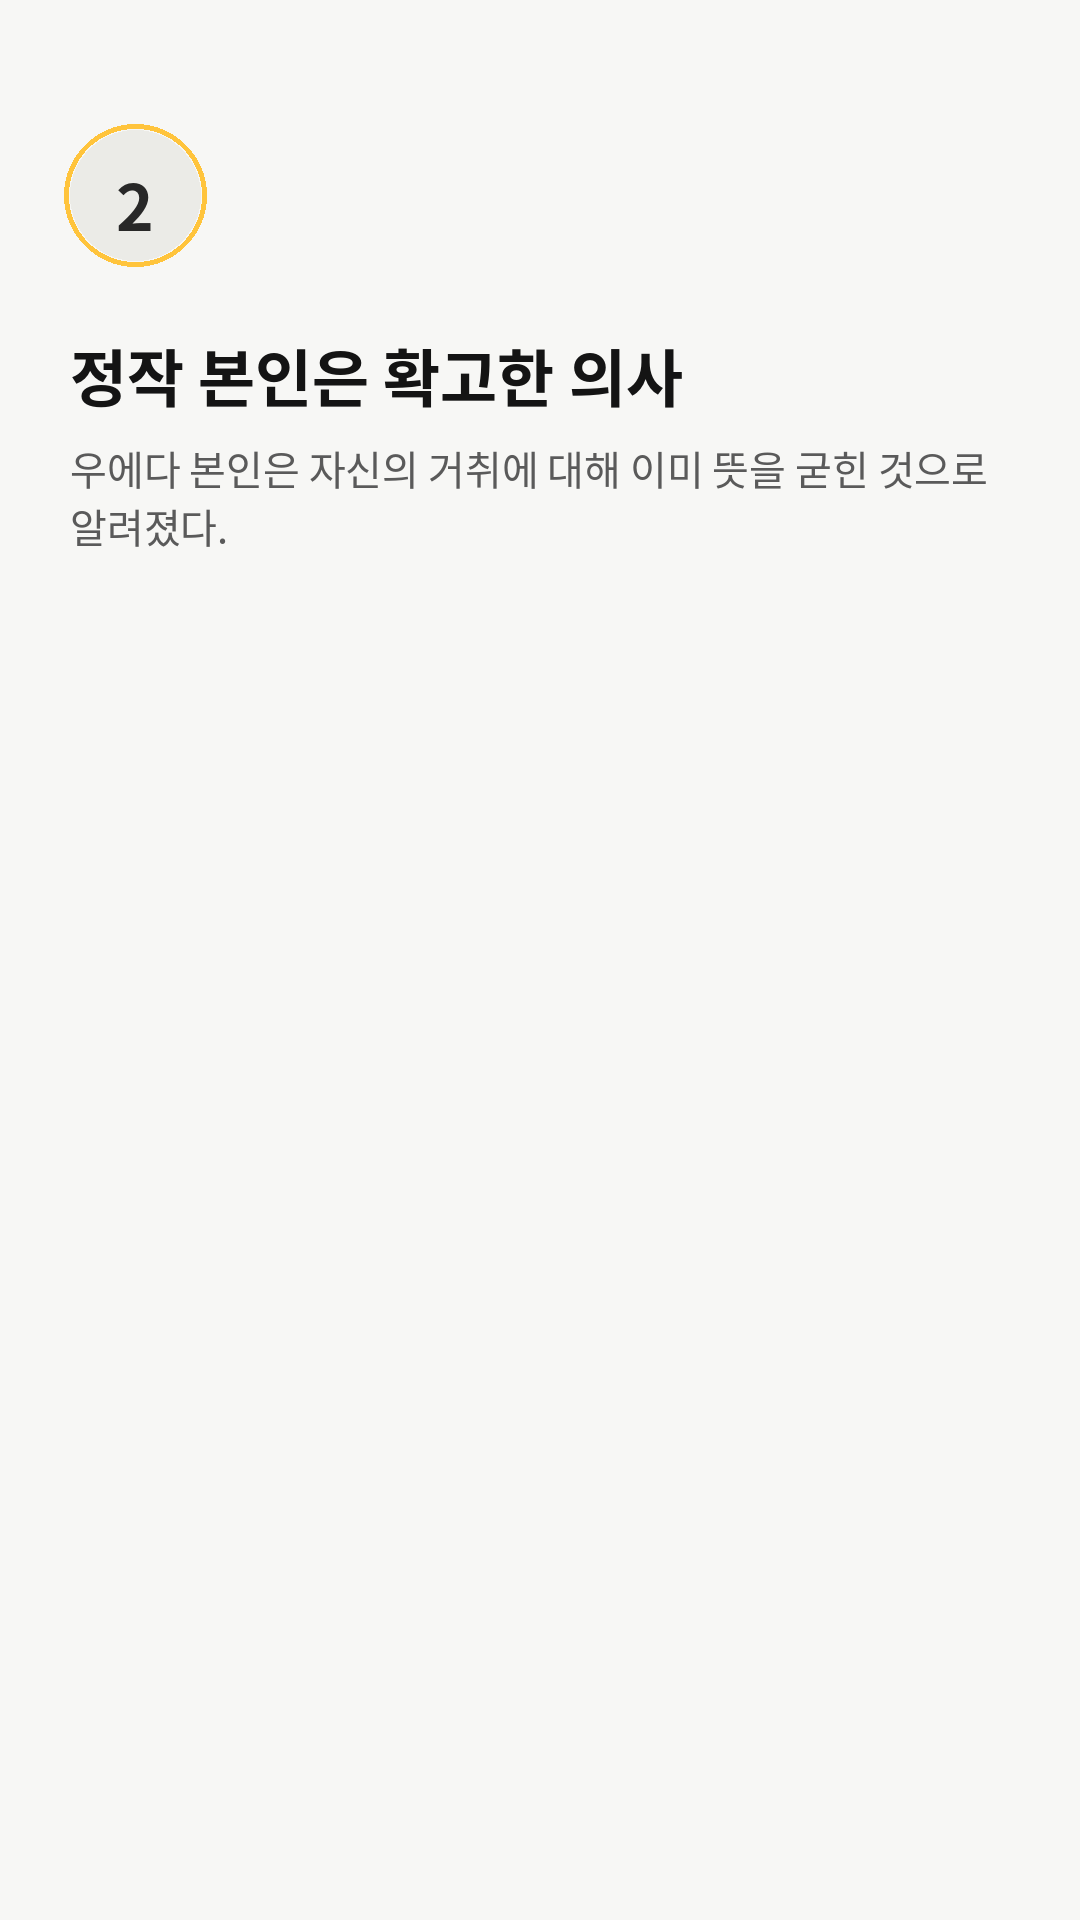
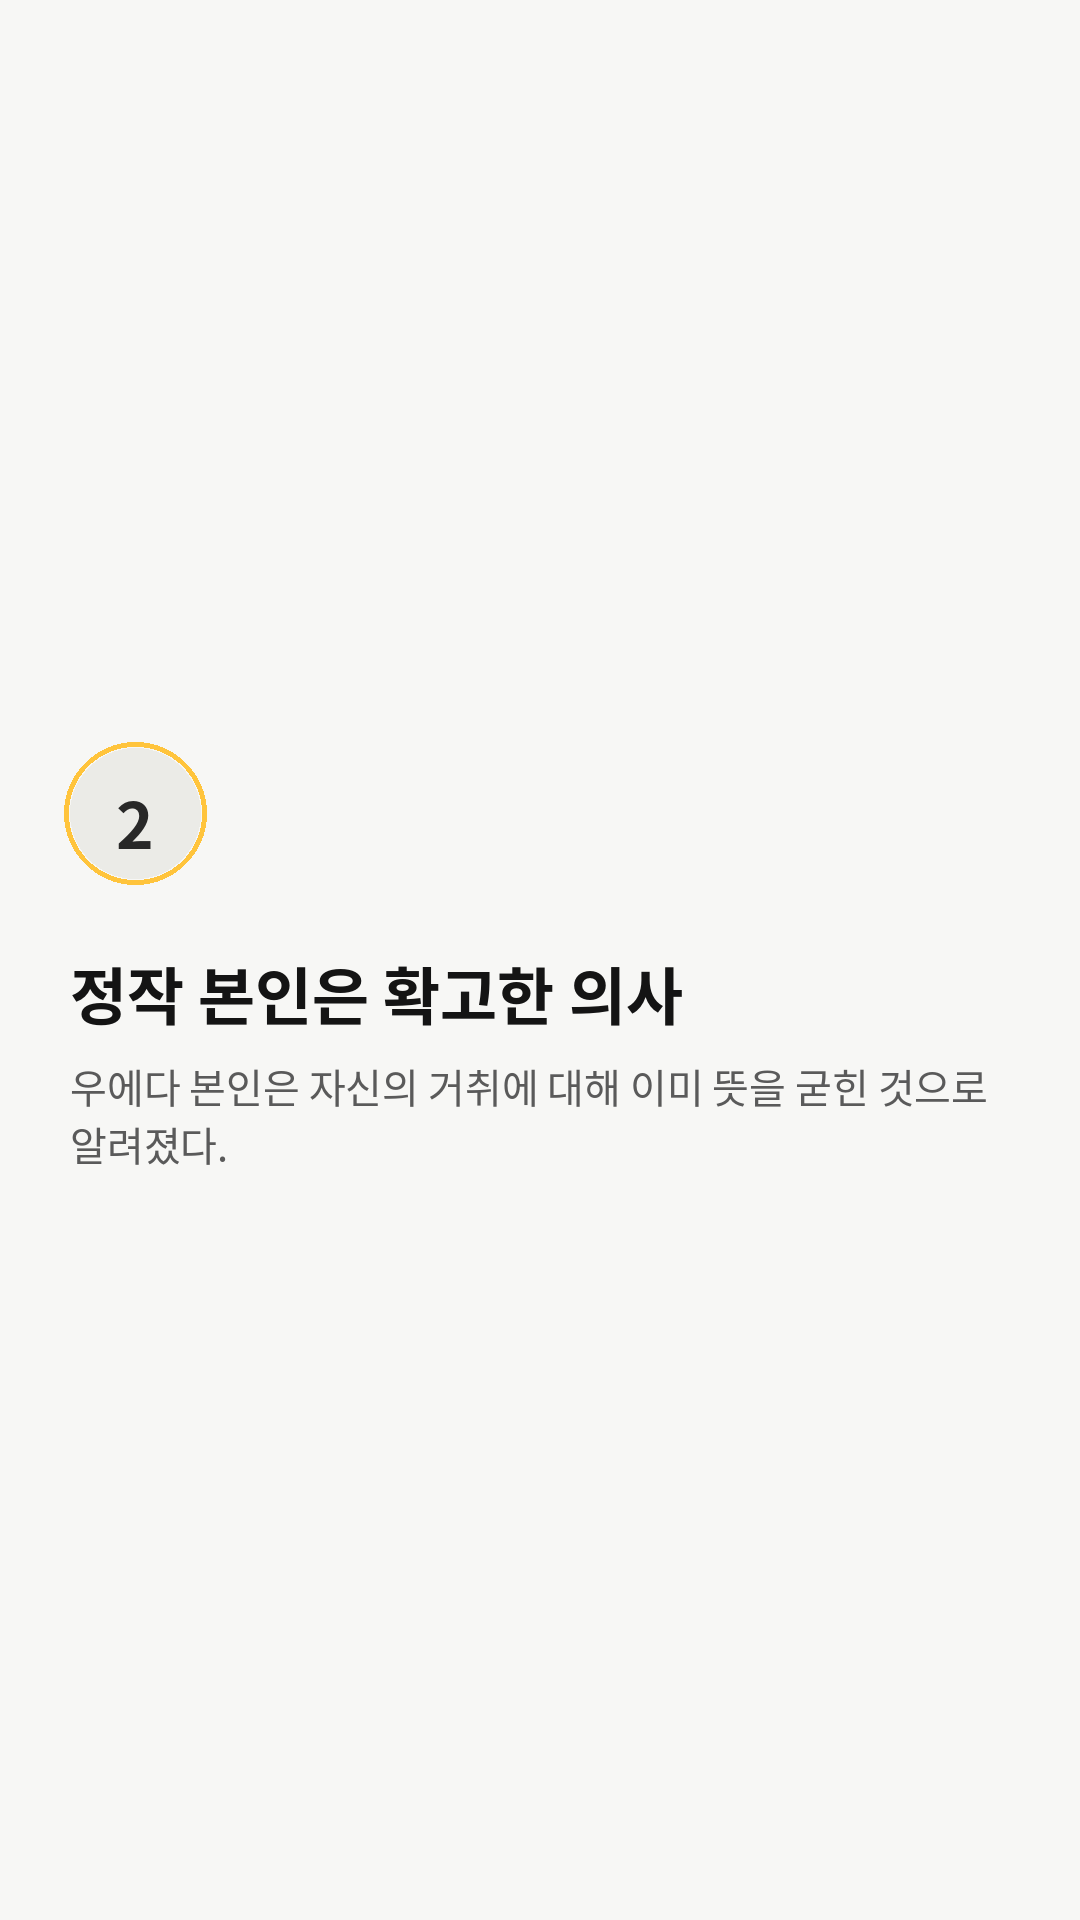
style: 팩트 카드 텍스트 블록을 화면 중앙 쪽으로 재배치
Claude-Session: https://claude.ai/code/session_01PDkrwXsvev2hwTxjQzk9qH

diff --git a/news-reels-bot/scripts/make_carousel.py b/news-reels-bot/scripts/make_carousel.py
@@ -187,25 +187,33 @@ def make_fact_card(number: str, title: str, body: str, out_path: str):
     draw = ImageDraw.Draw(img)
 
     badge_d = 130
-    bx, by = 70, 130
+    title_font = font(FONT_BOLD, 62)
+    body_font = font(FONT_REGULAR, 40)
+    max_w = W - 140
+    title_lines = wrap_text(draw, title, title_font, max_w)
+    body_lines = wrap_text(draw, body, body_font, max_w)
+    title_line_h, body_line_h = 78, 58
+
+    # 배지 + 제목 + 본문을 한 블록으로 보고, 화면 세로 중앙보다 살짝 위쪽에 오도록 배치
+    block_h = badge_d + 70 + len(title_lines) * title_line_h + 30 + len(body_lines) * body_line_h
+    by = int(H * 0.5 - block_h / 2)
+    bx = 70
+
     draw.ellipse([bx - 6, by - 6, bx + badge_d + 6, by + badge_d + 6], outline=ACCENT, width=5)
     draw.ellipse([bx, by, bx + badge_d, by + badge_d], fill=(235, 235, 231))
     num_font = font(FONT_BOLD, 64)
     tw = draw.textlength(number, font=num_font)
     draw.text((bx + (badge_d - tw) / 2, by + (badge_d - 78) / 2), number, font=num_font, fill=(40, 40, 40))
 
-    title_font = font(FONT_BOLD, 62)
     ty = by + badge_d + 70
-    max_w = W - 140
-    for line in wrap_text(draw, title, title_font, max_w):
+    for line in title_lines:
         draw.text((70, ty), line, font=title_font, fill=(20, 20, 20))
-        ty += 78
+        ty += title_line_h
 
-    body_font = font(FONT_REGULAR, 40)
     ty += 30
-    for line in wrap_text(draw, body, body_font, max_w):
+    for line in body_lines:
         draw.text((70, ty), line, font=body_font, fill=(90, 90, 90))
-        ty += 58
+        ty += body_line_h
 
     img.save(out_path)
 
